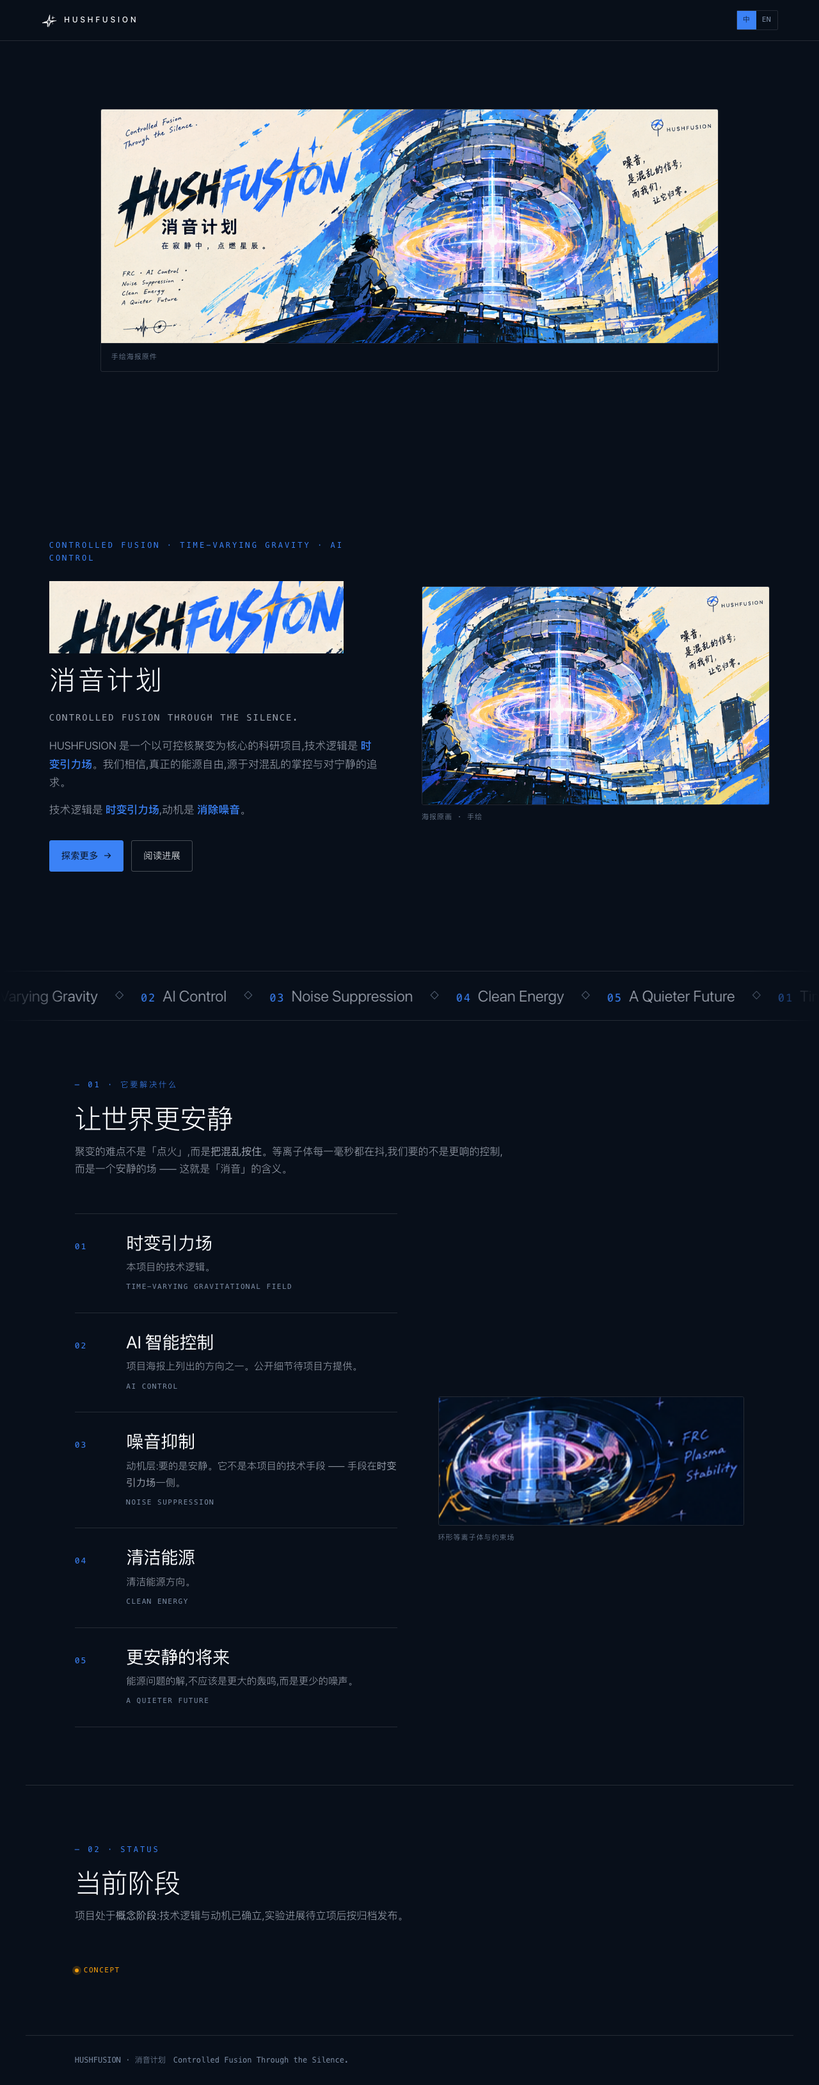
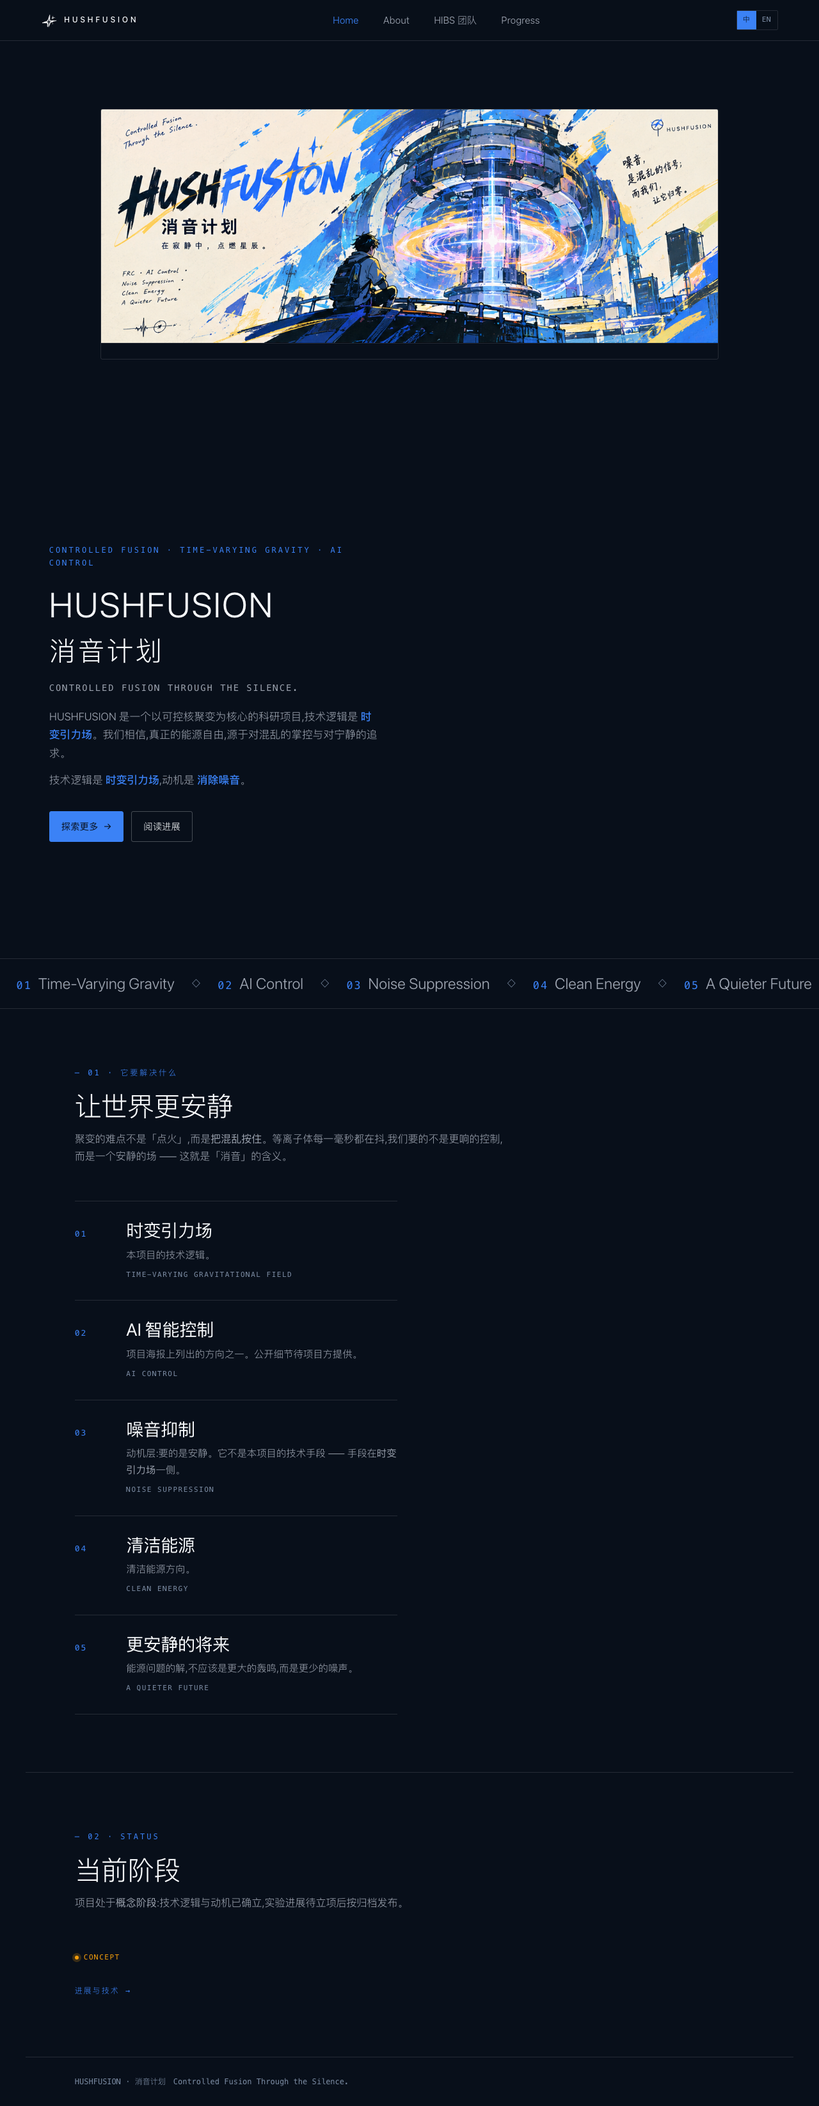
fix: 恢复顶栏导航并修好 CSS 未闭合的 @media(折叠点/顶栏高度因此错位)
导航(需方:之前的导航更好看)
- index.html 顶栏恢复 Home / About / HIBS 团队 / Progress 四项 + 窄屏汉堡按钮(.nav-toggle)
- 跨页入口恢复:CTA 回到 progress.html#tech / progress.html;当前阶段补回「进展与技术 →」
- style.css 补回 .mast-links / .nav-toggle 规则、1180px 中段收紧、900px 折叠块;app.js 补回开关逻辑(点开/Esc/点外部收起)
- 折叠点为 900px:比内容断点(820)早一档,否则四项 + 中文项在 820–900 之间会横向溢出

CSS 事故(这是「折叠位置不对、高度变了」的根因)
- @media (max-width: 980px) 缺少闭合 },导致其后所有规则(含导航的 .nav-toggle{display:none}
  与折叠块)被套进 980 内:宽屏下折叠按钮外露并顶高顶栏,1180 断点位置也随之错位 —— 已补 }

序厅
- .intro 按需方要求还原为他贴的那一版(两列 grid + min-height:100svh),不再改动

素材(需方:截图素材是我决定多余的)
- ui/mockup-desktop.png、ui/mockup-mobile.png、news/news-01..03.png 移入 EXTRA_CROPS 并删除产物
- brand/wordmark-brush.png 同上(序厅 h1 已改文字渲染);现产物 11 个切片 + 2 个图标

验收
- scripts/verify-site.mjs 由「单页 14 项」扩到「四页 97 项」:新增 9.6 窄屏折叠(汉堡出现/链接折叠/
  点开可见/aria-expanded/Esc 收起)、9.7 两侧边界(1180 横排不溢出、860 已折叠)、9.8 宽屏顶栏横排 + 高度 ≤80px
- 97/97 全绿

文档
- DESIGN-PLAN §7.5.1 新增本轮删除留档(海报节文案/手写字标/序厅插图/截图素材)
- ASSETS.md、CONTENT-SOURCES.md、README.md 同步:素材 11 个、退役素材去向、复核路径改为 poster-full

diff --git a/index.html b/index.html
@@ -18,8 +18,14 @@
       <img class="brand-mark" src="assets/brand/mark-bolt--white.png" alt="" aria-hidden="true">
       <span class="brand-word">HUSHFUSION</span>
     </a>
-
+    <nav class="mast-links" aria-label="主导航">
+      <a href="index.html">Home</a>
+      <a href="about.html">About</a>
+      <a href="hibs.html" data-zh="HIBS 团队" data-en="HIBS Team">HIBS 团队</a>
+      <a href="progress.html">Progress</a>
+    </nav>
     <div class="mast-meta">
+      <button class="nav-toggle" aria-expanded="false" aria-label="打开导航">≡</button>
       <div class="lang-toggle">
         <button data-lang-btn="zh" class="is-active" aria-label="中文">中</button>
         <button data-lang-btn="en" aria-label="English">EN</button>
@@ -36,7 +42,7 @@
       <img src="assets/hero/poster-full.png"
            alt="HUSHFUSION 消音计划手绘海报:笔迹主标、中文标语与反应堆主视觉">
       <figcaption>
-        <span>手绘海报原件</span>
+       
       </figcaption>
     </figure>
   </section>
@@ -45,11 +51,7 @@
   <section class="intro" id="intro">
     <div class="intro-inner">
       <p class="kicker">Controlled Fusion · Time-Varying Gravity · AI Control</p>
-      <h1>
-        <span class="sr-only">HUSHFUSION 消音计划</span>
-        <img class="intro-wordmark" src="assets/brand/wordmark-brush.png"
-             alt="" aria-hidden="true">
-      </h1>
+      <h1 class="intro-h1">HUSHFUSION</h1>
       <p class="intro-cn">消音计划</p>
       <p class="intro-en">Controlled Fusion Through the Silence.</p>
       <p class="lede" data-zh="HUSHFUSION 是一个以可控核聚变为核心的科研项目,技术逻辑是 <strong>时变引力场</strong>。我们相信,真正的能源自由,源于对混乱的掌控与对宁静的追求。" data-en="HUSHFUSION is a research project built around controlled fusion; its technical logic is a <strong>time-varying gravitational field</strong>. We believe real energy freedom comes from mastering chaos and pursuing quiet." data-html="1">HUSHFUSION 是一个以可控核聚变为核心的科研项目,技术逻辑是 <strong>时变引力场</strong>。我们相信,真正的能源自由,源于对混乱的掌控与对宁静的追求。</p>
@@ -58,15 +60,10 @@
          data-en="The technical logic is a &lt;strong&gt;time-varying gravitational field&lt;/strong&gt;; the motive is &lt;strong&gt;silencing noise&lt;/strong&gt;."
          data-html="1">技术逻辑是 <strong>时变引力场</strong>,动机是 <strong>消除噪音</strong>。</p>
       <div class="intro-cta">
-        <a class="quiet-cta quiet-cta--solid" href="#quiet">探索更多 <span aria-hidden="true">→</span></a>
-        <a class="quiet-cta" href="#status">阅读进展</a>
+        <a class="quiet-cta quiet-cta--solid" href="progress.html#tech">探索更多 <span aria-hidden="true">→</span></a>
+        <a class="quiet-cta" href="progress.html">阅读进展</a>
       </div>
     </div>
-    <figure class="intro-art">
-      <img src="assets/hero/art-tokamak.png"
-           alt="手绘风格的反应堆主视觉:环形等离子体核心、屋顶上的观测者,右上角带项目角标与中文批注">
-      <figcaption>海报原画 · 手绘</figcaption>
-    </figure>
   </section>
 
   <!-- ◆ 滚动展示栏:主题词(取自海报要点) -->
@@ -126,8 +123,8 @@
         </div></li>
       </ol>
       <figure class="reveal fig-native-sm">
-        <img src="assets/art/plasma-ring.png" alt="环形等离子体与约束场的插画">
-        <figcaption>环形等离子体与约束场</figcaption>
+     
+        
       </figure>
     </div>
   </section>
@@ -143,6 +140,8 @@
          data-html="1">项目处于<strong>概念阶段</strong>:技术逻辑与动机已确立,实验进展待立项后按归档发布。</p>
     </div>
     <p><span class="status">Concept</span></p>
+    <p style="margin-top:26px"><a class="see-all" href="progress.html"
+       data-zh="进展与技术 →" data-en="Progress &amp; technology →">进展与技术 →</a></p>
   </section>
 
 

diff --git a/style.css b/style.css
@@ -166,7 +166,8 @@ section.band + section.band { border-top: 1px solid var(--hairline); }
   min-height: calc(100svh - 70px);
 }
 .intro-inner { position: relative; z-index: 2; max-width: 640px; }
-.intro-wordmark { width: min(100%, 460px); margin-bottom: 6px; }
+.intro-h1 { font-size: clamp(2rem, 5vw, 3.4rem); font-weight: 300;
+             letter-spacing: .04em; line-height: 1.05; margin-bottom: 8px; }
 .intro-cn { font-size: clamp(1.6rem, 3.6vw, 2.6rem); font-weight: 300; letter-spacing: .08em; }
 .intro-en {
   font-family: var(--mono); font-size: clamp(.72rem, 1.4vw, .86rem);
@@ -189,15 +190,6 @@ section.band + section.band { border-top: 1px solid var(--hairline); }
                           color: var(--bg); }
 .quiet-cta span[aria-hidden] { transition: transform .18s ease; }
 .quiet-cta:hover span[aria-hidden] { transform: translateX(3px); }
-
-.intro-art { position: relative; margin: 0; }
-.intro-art img {
-  width: 100%; height: auto; border: 1px solid var(--hairline); border-radius: var(--r);
-}
-.intro-art figcaption {
-  font-family: var(--mono); font-size: 11px; letter-spacing: 1px;
-  color: var(--ink-3); margin-top: 10px;
-}
 
 /* ── 滚动展示栏(无缝 marquee) ───────────────────────────────────────── */
 .cap-marquee {
@@ -389,9 +381,9 @@ table.doc td:first-child { color: var(--ink); }
 /* ── 响应式:断点只改布局方向 ──────────────────────────────────────── */
 @media (max-width: 980px) {
   .intro { grid-template-columns: 1fr; min-height: 0; padding-top: clamp(40px, 7vh, 80px); }
-  .intro-art { order: -1; }
   .split { grid-template-columns: 1fr; }
   .split--flip > figure { order: 0; }
+}
 
 @media (max-width: 820px) {
   .cap-list li { flex-direction: column; gap: 8px; padding: 22px 0; }
@@ -401,4 +393,28 @@ table.doc td:first-child { color: var(--ink); }
   .tab { padding: 12px 10px; font-size: 13px; }
   .cmd-line { flex-wrap: wrap; }
   .copy { padding: 8px 12px; }
+}
+
+/* ── 顶栏导航(全宽居中;窄屏折叠为汉堡) ─────────────────────────── */
+.mast-links { display: flex; justify-content: center; gap: clamp(18px, 3vw, 44px); flex: 1; }
+.mast-links a { color: var(--ink-2); font-size: 15px; transition: color .18s ease; }
+.mast-links a:hover, .mast-links a.is-active { color: var(--accent); }
+.nav-toggle { display: none; }
+
+/* 导航比源稿多一个中文项,中段收一收间距与字号 */
+@media (max-width: 1180px) {
+  .mast-links { gap: clamp(14px, 2.4vw, 30px); }
+  .mast-links a { font-size: 14px; }
+}
+
+/* 导航折叠:比内容断点早一档,否则四项 + 中文项在 820–900 之间会横向溢出 */
+@media (max-width: 900px) {
+  .nav-toggle { display: inline-flex; align-items: center; }
+  .mast-links {
+    display: none; position: absolute; left: 0; right: 0; top: 100%;
+    flex-direction: column; gap: 0; padding: 8px 0 14px;
+    background: var(--bg-2); border-bottom: 1px solid var(--hairline);
+  }
+  .topnav.is-open .mast-links { display: flex; }
+  .mast-links a { padding: 12px clamp(24px, 5vw, 64px); font-size: 15px; }
 }

diff --git a/app.js b/app.js
@@ -77,6 +77,28 @@ document.documentElement.classList.add('js');
     });
   });
 
+  /* ── 移动端导航 ─────────────────────────────────────────────────────── */
+  var topnav = document.querySelector('.topnav');
+  var navToggle = document.querySelector('.nav-toggle');
+  if (topnav && navToggle) {
+    var setOpen = function (on) {
+      topnav.classList.toggle('is-open', on);
+      navToggle.setAttribute('aria-expanded', on ? 'true' : 'false');
+    };
+    navToggle.addEventListener('click', function () {
+      setOpen(!topnav.classList.contains('is-open'));
+    });
+    Array.prototype.forEach.call(topnav.querySelectorAll('.mast-links a'), function (a) {
+      a.addEventListener('click', function () { setOpen(false); });
+    });
+    document.addEventListener('keydown', function (e) {
+      if (e.key === 'Escape') setOpen(false);
+    });
+    document.addEventListener('click', function (e) {
+      if (!topnav.contains(e.target)) setOpen(false);
+    });
+  }
+
   /* ── 滚动揭示 ───────────────────────────────────────────────────────── */
   var revealables = document.querySelectorAll('.reveal');
   var reduce = window.matchMedia && window.matchMedia('(prefers-reduced-motion: reduce)').matches;

diff --git a/tools/slice_assets.py b/tools/slice_assets.py
@@ -39,7 +39,6 @@ CROPS: list[tuple[str, tuple[int, int, int, int], str]] = [
     ("art/plasma-ring.png",         (690, 868, 985, 992),   "桌面稿内的 FRC 等离子环插画"),
 
     # ---- 品牌 --------------------------------------------------------------
-    ("brand/wordmark-brush.png",    (22, 92, 525, 215),     "手写体主标 HushFusion(纸底)"),
     ("brand/slogan-cn.png",         (96, 214, 358, 305),    "中文标语 消音计划 / 在寂静中,点燃星辰。"),
     ("brand/list-frc.png",          (36, 331, 196, 419),    "要点清单 FRC·AI Control·…"),
     ("brand/mark-bolt.png",         (1063, 989, 1139, 1062), "闪电/星芒标志(白)"),
@@ -47,13 +46,6 @@ CROPS: list[tuple[str, tuple[int, int, int, int], str]] = [
     ("brand/app-icon.png",          (1167, 1075, 1273, 1173), "应用图标(蓝/橙圆角方块)"),
 
     # ---- 界面稿 ------------------------------------------------------------
-    ("ui/mockup-desktop.png",       (319, 531, 1029, 1174), "桌面端整屏 Mockup"),
-    ("ui/mockup-mobile.png",        (1060, 523, 1302, 959), "手机端整屏 Mockup"),
-
-    # ---- 进展卡片缩略图(原生低分辨率) -------------------------------------
-    ("news/news-01.png",            (348, 1055, 553, 1121), "进展卡 1:FRC 约束实验"),
-    ("news/news-02.png",            (574, 1055, 780, 1121), "进展卡 2:AI 控制系统"),
-    ("news/news-03.png",            (792, 1055, 997, 1121), "进展卡 3:团队招募"),
 
     # ---- 配色 --------------------------------------------------------------
 ]
@@ -70,6 +62,16 @@ EXTRA_CROPS: list[tuple[str, tuple[int, int, int, int], str]] = [
     ("brand/mark-vortex.png",       (1174, 983, 1258, 1068), "环形笔触圆章"),
     ("ui/mobile-hero.png",          (1070, 743, 1296, 808), "手机稿 Hero 画面"),
     ("brand/paper-texture.png",     (200, 46, 456, 90),     "纸底纹理(自动选的最平整一块)"),
+
+    # ---- 需方 2026-09-17 确认多余的截图素材(源图坐标保留,要时 --all 取回) ----
+    ("ui/mockup-desktop.png",       (319, 531, 1029, 1174), "桌面端整屏 Mockup"),
+    ("ui/mockup-mobile.png",        (1060, 523, 1302, 959), "手机端整屏 Mockup"),
+    ("news/news-01.png",            (348, 1055, 553, 1121), "进展卡 1:FRC 约束实验"),
+    ("news/news-02.png",            (574, 1055, 780, 1121), "进展卡 2:AI 控制系统"),
+    ("news/news-03.png",            (792, 1055, 997, 1121), "进展卡 3:团队招募"),
+
+    # ---- 已从页面撤下的手写体字标(改用文字渲染,见 docs/DESIGN-PLAN.md) ----
+    ("brand/wordmark-brush.png",    (22, 92, 525, 215),     "手写体主标 HushFusion(纸底)"),
 ]
 
 # 只产出「键出为透明」的白色版、不保留原图的项

diff --git a/docs/DESIGN-PLAN.md b/docs/DESIGN-PLAN.md
@@ -38,17 +38,16 @@
 | `assets/hero/poster-full.png` | 1312×497 | 1174.7 KB | (0, 0, 1312, 497) | 整幅手绘海报(品牌主视觉,含字) |
 | `assets/hero/art-tokamak.png` | 792×497 | 777.8 KB | (520, 0, 1312, 497) | 海报右侧纯画面(反应堆+屋顶少年,含海报角标与批注) |
 | `assets/hero/art-tokamak-wide.png` | 756×297 | 451.7 KB | (556, 200, 1312, 497) | 海报右侧横裁(避开角标与批注,宽幅插图用) |
-| `assets/art/plasma-ring.png` | 295×124 | 67.1 KB | (690, 868, 985, 992) | 桌面稿内的等离子环插画 |
-| `assets/brand/wordmark-brush.png` | 503×123 | 93.9 KB | (22, 92, 525, 215) | 手写体主标 HushFusion(纸底) |
+| `assets/art/plasma-ring.png` | 295×124 | 67.1 KB | (690, 868, 985, 992) | 桌面稿内的 FRC 等离子环插画 |
 | `assets/brand/slogan-cn.png` | 262×91 | 36.2 KB | (96, 214, 358, 305) | 中文标语 消音计划 / 在寂静中,点燃星辰。 |
-| `assets/brand/list-frc.png` | 160×88 | 23.2 KB | (36, 331, 196, 419) | 海报左下手写要点清单(文件名保留 list-frc) |
+| `assets/brand/list-frc.png` | 160×88 | 23.2 KB | (36, 331, 196, 419) | 要点清单 FRC·AI Control·… |
 | `assets/brand/mark-bolt--white.png` | 76×73 | 1.0 KB | (1063, 989, 1139, 1062) | 闪电/星芒标志(白)(深色底已键出为透明) |
 | `assets/brand/tile-vortex.png` | 95×94 | 9.9 KB | (1053, 1077, 1148, 1171) | 圆章方块版(深色圆角砖) |
 | `assets/brand/app-icon.png` | 106×98 | 10.4 KB | (1167, 1075, 1273, 1173) | 应用图标(蓝/橙圆角方块) |
 | `icons/favicon-32.png` | 32×32 | 1.8 KB | (1167, 1075, 1273, 1173) | favicon 32px(由 106px 源图放大,≥180 会偏软,见 DESIGN-PLAN §10.3) |
 | `icons/apple-touch-icon.png` | 180×180 | 24.3 KB | (1167, 1075, 1273, 1173) | favicon 180px(由 106px 源图放大,≥180 会偏软,见 DESIGN-PLAN §10.3) |
 
-**合计 12 个文件 / 2.61 MB**(站点页面上实际引用的就是这 20 个);逐文件 sha256 见 `assets/manifest.json`。
+**合计 11 个文件 / 2.52 MB**(站点页面上实际引用的就是这 11 个);逐文件 sha256 见 `assets/manifest.json`。
 > 源图里还有一批**没被站点引用**的备用切片(少年局部、苗形章、英文角标、波形签名、环形圆章、手机稿 hero、纸底纹理等),坐标保留在 `tools/slice_assets.py` 的 `EXTRA_CROPS` 里,要时跑 `python3 tools/slice_assets.py --all` 再切 —— **不做进默认产物,免得仓库里堆一堆没人用的图**。
 >
 > 另有一批**点缀素材池** `assets/cover/`(80 张 512×682 笔触封面,来自 bolloon 项目,原样复制未重编码),用于后续替换上表里那些低分辨率的裁切素材 —— 用途、使用纪律与替换关系见 `docs/ASSETS.md` §7。
@@ -60,9 +59,9 @@
 
 | 分辨率等级 | 素材 | 允许的最大显示宽度 |
 |:--|:--|:--|
-| 可放大到 1.3× 以内 | `poster-full`(1312)、`art-tokamak`(792)、`art-tokamak-wide`(756)、`mockup-desktop`(710)、`desktop-hero`(574)、`wordmark-brush`(503) | 版面列宽即可 |
-| 接近原生 | `plasma-ring`(295)、`mockup-mobile`(242)、`news-0x`(205)、`swatches`(304)、`slogan-cn`(262)、`list-frc`(160) | **≈ 原生像素** |
-| 只能缩小 | `mark-bolt--white`(76)、`wordmark-caps--white`(102)、`tile-vortex`(95)、`app-icon`(106) | 原生像素或更小 |
+| 可放大到 1.3× 以内 | `poster-full`(1312)、`art-tokamak`(792)、`art-tokamak-wide`(756) | 版面列宽即可 |
+| 接近原生 | `plasma-ring`(295)、`slogan-cn`(262)、`list-frc`(160) | **≈ 原生像素** |
+| 只能缩小 | `mark-bolt--white`(76)、`tile-vortex`(95)、`app-icon`(106) | 原生像素或更小 |
 
 **规则**:一块素材**永远不许被放大来填版面**。放大不会变清晰,只会变糊;
 需要更大尺寸时应当**重新出图**(见 §10 重绘清单),而不是拉伸 CSS。
@@ -135,9 +134,10 @@
 | 正文 / 说明 | 同上(300 字重) | 长文可读 |
 | 元数据 / 代码 | `ui-monospace, "SF Mono", "JetBrains Mono", Menlo, monospace` | 序号、日期、命令、标签 |
 
-> **关键决定**:通用做法里「展示级用衬线」在这里被放弃。
-> 风格角色改由**真实品牌图**承担(手写主标 `wordmark-brush.png` 就是页面的 h1),字体只承担结构。
-> 这是把「素材决定容器」落到底层的一步:**手绘感来自素材,不来自字体**。
+> **关键决定**:通用做法里「展示级用衬线」在这里被放弃,风格角色交给真实素材与版式。
+> **2026-09-17 修订(需方要求)**:页面上不再出现任何「字体图片」—— 序厅原来的手写体主标
+> `wordmark-brush.png`(503×123 纸底位图)已撤下,`<h1>` 回到**文字渲染**;顶栏字标同样只用文字
+> (原图仅 102×19,2× 屏会糊)。手绘感现在只由海报原件承担,不靠字体、也不靠字标图片。
 
 ### 4.2 字号阶梯(实现中的真实值)
 
@@ -253,6 +253,18 @@ section 标题    clamp(1.6rem, 3.4vw, 2.6rem)
 
 ---
 
+### 7.5.1 2026-09-17 追加:按需方要求撤下的内容
+
+| 撤下 | 原因 | 现在在哪 |
+|:--|:--|:--|
+| 顶部海报节的 `— Poster` 小标、`海报原件` 标题、「整套视觉的源头…从模板反推」说明段 | 需方原话:「删除」,该位置只留海报图 | 正文已删;本节留档 |
+| 序厅手写体主标图 `brand/wordmark-brush.png` | 需方原话:「这个字体要去掉」 | 改用文字渲染的 `<h1>`;图坐标留在 `tools/slice_assets.py` 的 `EXTRA_CROPS` |
+| 序厅右侧插图 `hero/art-tokamak.png` 的展示位 | 需方原话:「后一个海报也去掉」——顶部出现两张海报 | 只在 `about.html#origin` 保留;坐标不变 |
+| `ui/mockup-desktop.png`、`ui/mockup-mobile.png`、`news/news-01…03.png` | 需方确认是他本人决定多余并删除的截图素材 | 已从产物移入 `EXTRA_CROPS`,`--all` 可取回 |
+
+> 页面上的**图片只剩三张**:顶栏标志 `mark-bolt--white`、顶部海报 `poster-full`、能力区插画 `plasma-ring`
+> (另有 favicon 两张)。其余版面全部由文字与发丝线承担。
+
 ## 八 响应式方案
 
 **原则**:断点只改**布局方向**,不改字号(字号一律 `clamp()`)。
@@ -327,10 +339,9 @@ icons/           favicon 全套(32 / 180 / 192 / 512)
 | `brand/mark-bolt--white` / `brand/tile-vortex` | 76–95px 位图 | **SVG**(单色可换色的路径) | 现在只能按原生尺寸用;导航、favicon、印刷都需要矢量 |
 | `brand/app-icon` | 106×98 位图 | 1024×1024 方图 + SVG | iOS/Android 上架与 PWA 图标需要 1024 与安全边 |
 | `brand/wordmark-caps--white` | 102×19 位图 | SVG 或 4× 位图 | 顶栏字标在高分屏上会软 |
-| `brand/wordmark-brush` | 503×123 纸底位图 | 透明底 2× 版本(或手绘原件扫描) | 序厅主标是页面最大的字,目前用纸底块规避 |
-| `news/news-01…03` | 205×66 位图 | 每张 ≥ 800×400 的新图 | 缩略图只能 1:1 显示,做不了大卡片 |
-| `art/plasma-ring` | 295×124 位图 | ≥ 1000px 宽的插画 | 同上 |
-| `ui/mockup-mobile` | 242×436 位图 | ≥ 480×866 或真机截图 | 手机稿在桌面端展示偏小 |
+| `art/plasma-ring` | 295×124 位图 | ≥ 1000px 宽的插画 | 能力区的环形插画只能按原生尺寸用 |
+| ~~`brand/wordmark-brush`~~ | ~~503×123~~ | — | **已退役**(需方 2026-09-17 要求改用文字渲染),坐标留在 `EXTRA_CROPS` |
+| ~~`news/news-01…03`~~ / ~~`ui/mockup-*`~~ | ~~205×66 / 242×436~~ | — | **已退役**(需方确认多余),坐标留在 `EXTRA_CROPS` |
 
 > 重绘到位后,只需要改 `assets/` 里的文件(文件名不变)+ 升 `?v=N`,页面结构不用动。
 
@@ -423,7 +434,7 @@ node scripts/verify-site.mjs http://127.0.0.1:8898
 
 ```text
 素材
-[x] 12 个切片文件 + icons(站点引用到的全部),全部带 sha256 与源图裁剪框记录
+[x] 11 个切片文件 + icons(站点引用到的全部),全部带 sha256 与源图裁剪框记录
 [x] 色板实测值 + 设计板印刷 hex 双记录(assets/palette.json)
 [x] 低分辨率素材已标注并给出重绘清单
 [x] 切图脚本可重放、确定性(tools/slice_assets.py)

diff --git a/README.md b/README.md
@@ -8,7 +8,7 @@
 ## 这是什么
 
 * `index.html` —— **单页**深色展览式静态站:海报原件置顶,下面是序厅、展示栏、五个支点、当前阶段
-* `assets/` —— 12 个素材切片(站点引用到的全部;全部从**同一张源图**裁剪,带 sha256 与源图裁剪框记录)
+* `assets/` —— 11 个素材切片(站点引用到的全部;全部从**同一张源图**裁剪,带 sha256 与源图裁剪框记录)
 * `docs/` —— 设计简报、设计计划(可交给前端 agent 的实现规范)、内容来源表、真浏览器截图
 * `tools/` + `scripts/` —— 切图脚本与真浏览器验收脚本
 

diff --git a/docs/CONTENT-SOURCES.md b/docs/CONTENT-SOURCES.md
@@ -92,4 +92,4 @@
 * 三条进展卡标题末尾用词
 * 海报手写清单的英文词序(原为 `FRC · AI Control · …`,第 1 项已按需方口径替换)
 
-复核方式:直接看 `assets/hero/poster-full.png` 与 `assets/ui/mockup-desktop.png`,或提供原始矢量稿。
+复核方式:直接看 `assets/hero/poster-full.png`(整幅海报原件,页面顶部那张),或提供原始矢量稿。
